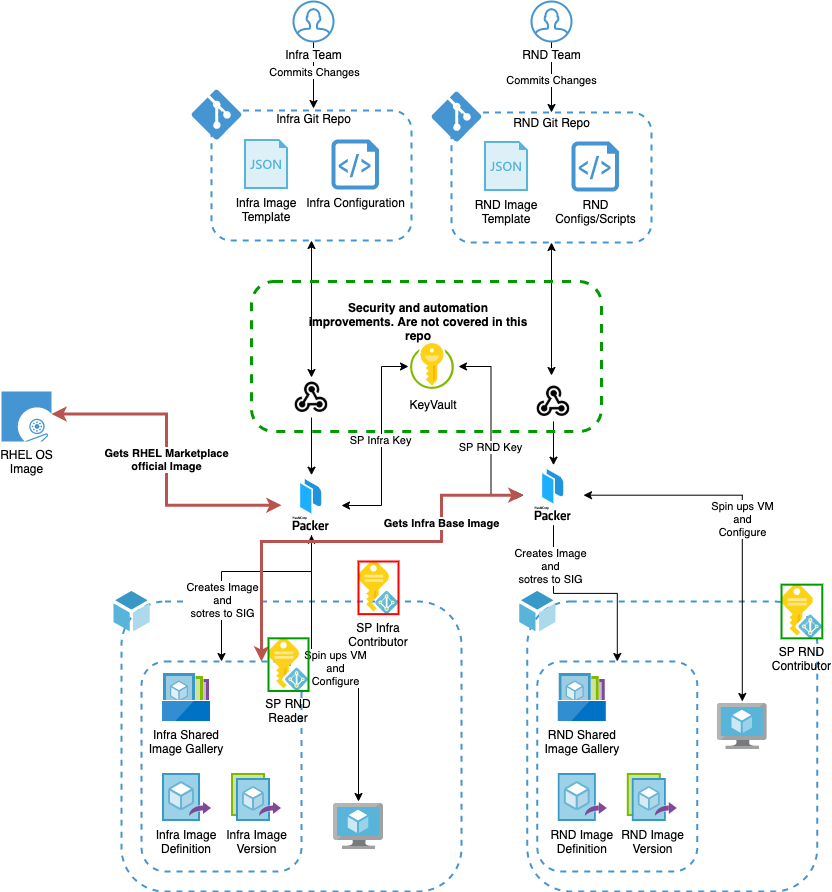
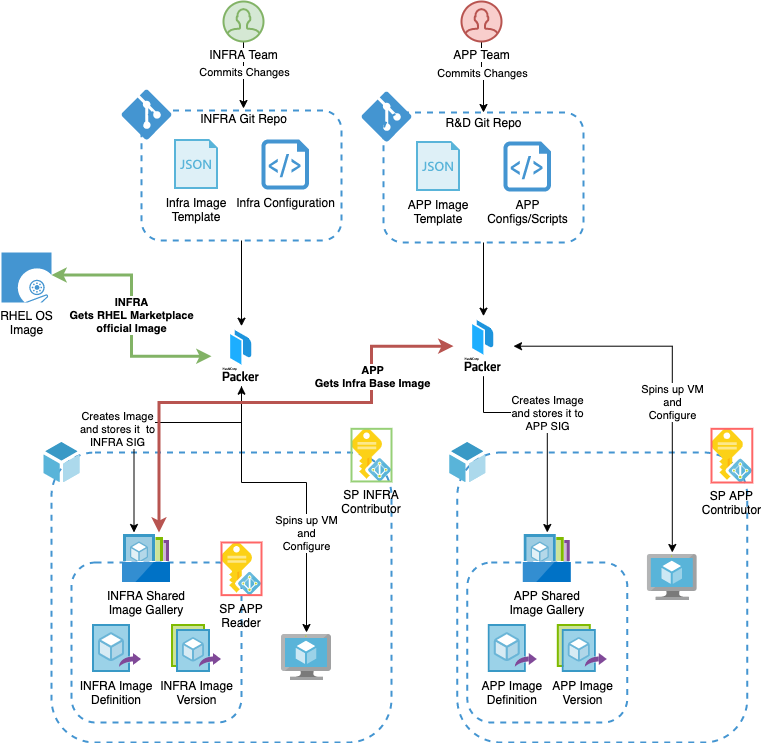
refactor, typo fix, clarifications

Changed region(s): [[0.0, 0.0, 1.0, 1.0], [0.3622, 0.8358, 0.4829, 0.9596]]

diff --git a/README.md b/README.md
@@ -1,161 +1,115 @@
-# Azure Shared Image Gallery
-This setup covers the case when one department is responsible for the base image with hardening and tuning. Other departments of a company restricted to use the base image developing their own application, etc. 
+# Azure Shared Image Gallery for Organizations with Distributed IT Departments that Shares Common Default Image
+
+This architecture approach covers the case when an organization has several IT departments where one department(e.g. INFRA) is responsible
+for the base image(patches, hardening, tuning, and etc.), and other departments are restricted to use the base image developing their own applications.
+
+The concept is very similar to the containers approach where the basic image is used and any new modification is a layer.
 
 ![Azure SIG Architecture](AzureSharedImageGalleryAchitecture.png)
 
-
 # INFRA
-In this scenario INFRA department is responsible for base image hardening, tuning, etc. It creates a company-wide standard image to be used by other departments and stores it in Azure Shared Image Gallery.
+In this scenario, the INFRA department is responsible for the base image. It creates and stores in Azure Shared Image Gallery a company-wide default image with all hardening, tuning, and etc. that is used by other departments.
 
-### 1. Create infra RG
+INFRA department owns this default image and the APP department restricted to the read rights. So no one else can modify/delete the default image.
+
+### 1. Create INFRA RG
 ```bash
-infra_group_id=$(az group create -l eastus -n infra --query "id" -o tsv)
+infra_group_id=$(az group create -l westeurope -n INFRA --query "id" -o tsv)
 ```
 
-### 2. Create infra SP and save the output credentials
-Packer authenticates with Azure using a service principal(SP). We'll need this credentials later. Please, save the output.
+### 2. Create INFRA SP and save the output credentials
+Packer authenticates with Azure using a service principal(SP). We'll need these credentials later. Please, save the output.
 ```bash
-az ad sp create-for-rbac -n "infra" \
+az ad sp create-for-rbac -n "INFRA" \
 --role contributor \
 --scopes ${infra_group_id} \
---query "{ client_id: appId, client_secret: password, tenant_id: tenant }"
+--query "{ client_id: appId, client_secret: password }"
 ```
 
 ### 3. Get Subscription ID
 We'll need this id later. Please, save the output.
 ```bash
-az account show --query "id"
+az account show --query "{ subscription_id: id }"
 ```
 
-### 3. Create Shared Image Gallery
+### 3. Create INFRA Shared Image Gallery
 ```bash
-infra_sig_id=$(az sig create --resource-group infra --gallery-name infraGallery --query "id" -o tsv)
+infra_sig_id=$(az sig create --resource-group INFRA --gallery-name infraGallery --query "id" -o tsv)
 ```
 
 ### 5. Create image definition
 ```bash
-az sig image-definition create --resource-group "infra" --gallery-name "infraGallery" --gallery-image-definition "Rhel-Infra" --publisher "Infra" --offer "RHEL" --sku "7.3" --os-type "linux"
+az sig image-definition create --resource-group "INFRA" --gallery-name "infraGallery" --gallery-image-definition "Rhel-Infra" --publisher "Infra" --offer "RHEL" --sku "7.3" --os-type "linux"
 ```
 
-### 6. Create Packer template for infra
+### 6. Create a Packer template for infra
 See ```rhel-infra.json``` for reference
 
-### 7. Create ```rnd-env.sh``` with proper env variables
-```code
-#!/usr/local/bin/bash
+### 7. Create ```infra-env.sh``` with proper env variables
+See ```infra-env.sh``` for reference
 
-echo "Unset variables..."
-unset ARM_CLIENT_ID
-unset ARM_CLIENT_SECRET
-unset ARM_SUBSCRIPTION_ID
-
-unset ARM_RESOURCE_GROUP
-unset GALLERY_NAME
-unset IMAGE_NAME
-
-
-echo "Set variables..."
-export ARM_CLIENT_ID="<paste client id from the sp output here>"
-export ARM_SUBSCRIPTION_ID="<paste subscription id here>"
-export ARM_CLIENT_SECRET="<paste secret from sp output>"
-
-export ARM_RESOURCE_GROUP="infra"
-export GALLERY_NAME="infraGallery"
-export IMAGE_NAME="Rhel-Infra"
-
-```
-```bash
-chmod +x rnd-env.sh
+```bash 
+chmod +x infra-env.sh
 ```
 
 ### 8. Source env variables and run packer
 ```bash
 . ./infra-env.sh && packer build rhel-infra.json
 ```
+Under the hood, Packer creates a set of temporary assets in the INFRA RG (this can be changed to the usage of the pre-defined RG), creates a VM based on the RHEL image, applies configuration change.
 
+# APP
+The APP department develops an application. Company policies prohibit usage of any other images and restrict usage to the approved INFRA default image only.
 
-# RND
-In this scenario, RND department develops an application. Company policies restrict usage of any other images rather than approved INFRA image.
-
-### 1. Create RND RG
+### 1. Create APP RG
 ```bash
-rnd_group_id=$(az group create -l eastus -n rnd --query "id" -o tsv)
+app_group_id=$(az group create -l westeurope -n APP --query "id" -o tsv)
 ```
 
-### 2. Create RND SP and save the output credentials
-Packer authenticates with Azure using a service principal(SP). We'll need this credentials later. Please, save the output.
+### 2. Create APP SP and save the output credentials
+Packer authenticates in Azure using a service principal(SP). We'll need these credentials later. Please, save the output.
 ```bash
-az ad sp create-for-rbac -n "rnd" \
+az ad sp create-for-rbac -n "APP" \
 --role contributor \
---scopes ${rnd_group_id} \
---query "{ client_id: appId, client_secret: password, tenant_id: tenant }"
+--scopes ${app_group_id} \
+--query "{ client_id: appId, client_secret: password }"
 ```
-### 3. Assign RND SP 'Reader' role for Infra Shared Image Gallery 
+### 3. Assign APP SP 'Reader' role for Infra Shared Image Gallery 
 ```bash
-az ad sp create-for-rbac -n "rnd" \
+az ad sp create-for-rbac -n "APP" \
 --role reader --scopes ${infra_sig_id}
 ```
 
 ### 3. Get Subscription ID
 We'll need this id later. Please, save the output.
 ```bash
-az account show --query "id"
+az account show --query "{ subscription_id: id }"
 ```
 
-### 3. Create RND Shared Image Gallery
+### 3. Create APP Shared Image Gallery
 ```bash
-az sig create --resource-group rnd --gallery-name rndGallery
+az sig create --resource-group APP --gallery-name APPGallery
 ```
 
 ### 5. Create image definition
 ```bash
-az sig image-definition create --resource-group "rnd" --gallery-name "rndGallery" --gallery-image-definition "Rhel-Rnd" --publisher "RND" --offer "RHEL" --sku "7.3" --os-type "linux"
+az sig image-definition create --resource-group "APP" --gallery-name "APPGallery" --gallery-image-definition "Rhel-APP" --publisher "APP" --offer "RHEL" --sku "7.3" --os-type "linux"
 ```
 
-### 6. Create Packer template for RND
-See ```rhel-rdn.json``` for reference
+### 6. Create a Packer template for APP
+See ```rhel-app.json``` for reference
 
-### 7. Create ```rnd-env.sh``` with proper env variables
-```code
-#!/usr/local/bin/bash
-
-echo "Unset variables..."
-unset ARM_CLIENT_ID
-unset ARM_CLIENT_SECRET
-unset ARM_SUBSCRIPTION_ID
-
-unset ARM_RESOURCE_GROUP
-unset GALLERY_NAME
-unset IMAGE_NAME
-
-unset BASE_IMAGE_SIG_RG
-unset BASE_IMAGE_SIG
-unset BASE_IMAGE_NAME
-unset BASE_IMAGE_VER
-
-echo "Set variables..."
-export ARM_CLIENT_ID="<paste client id from the sp output here>"
-export ARM_SUBSCRIPTION_ID="<paste subscription id here>"
-export ARM_CLIENT_SECRET="<paste secret from sp output>"
-
-export ARM_RESOURCE_GROUP="rnd"
-export GALLERY_NAME="rndGallery"
-export IMAGE_NAME="Rhel-Rnd"
-
-export BASE_IMAGE_SIG_RG="infra"
-export BASE_IMAGE_SIG="infraGallery"
-export BASE_IMAGE_NAME="Rhel-Infra"
-export BASE_IMAGE_VER="1.0.0"
-```
+### 7. Create ```app-env.sh``` with proper env variables
+See ```app-env.sh``` for reference
 ```bash
-chmod +x rnd-env.sh
+chmod +x 'app-env.sh'
 ```
 
 ### 8. Source env variables and run packer
 ```bash
-. ./rnd-env.sh && packer build rhel-rnd.json
+. ./app-env.sh && packer build rhel-app.json
 ```
-
+Under the hood, Packer creates a set of temporary assets in APP RG (this can be changed to the usage of the pre-defined RG), creates a VM based on the default INFRA base image, applies configuration change.
 
 # Useful links
 * https://www.packer.io/docs/builders/azure/arm
